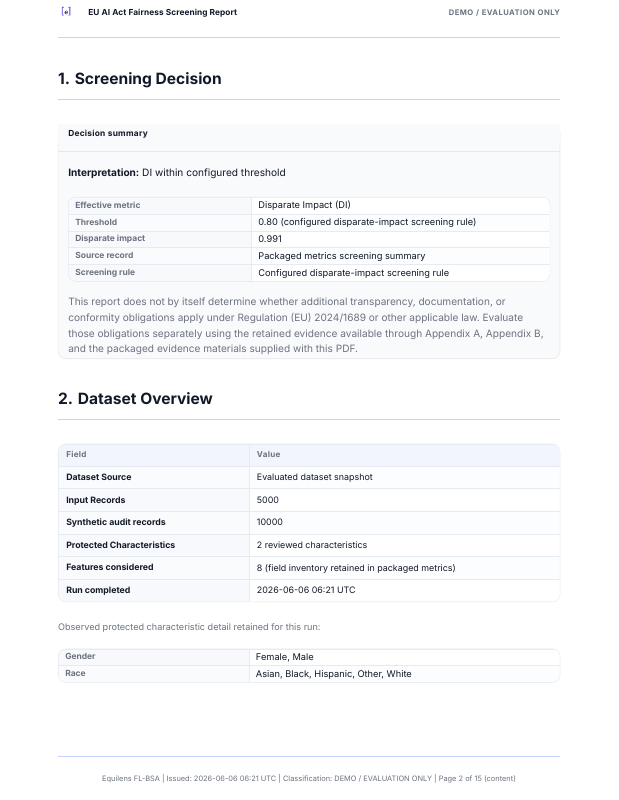
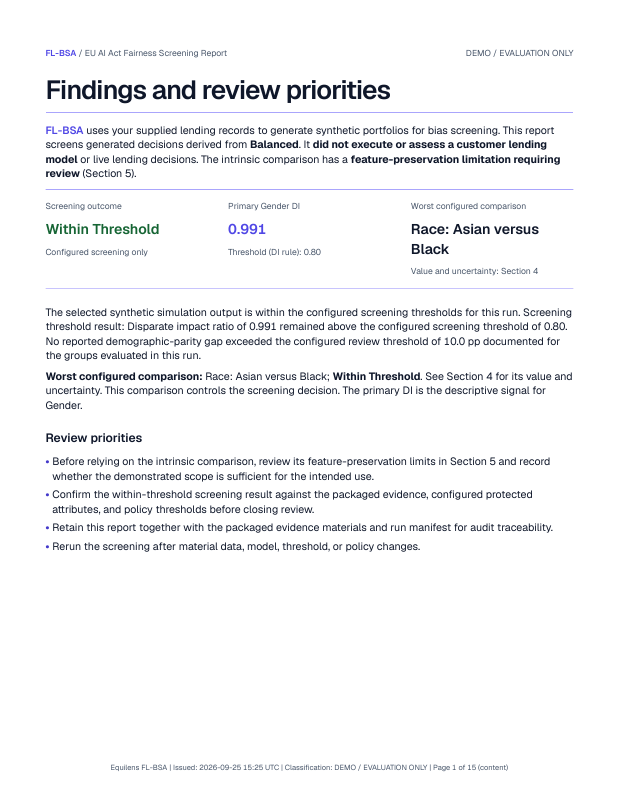
fix(site): align v5.0.8 demo evidence

diff --git a/trust-center/index.html b/trust-center/index.html
@@ -185,10 +185,10 @@
           <div class="card card--compact card--reader mt-8">
             <h3>Public reports &amp; files</h3>
             <ul class="checks">
-              <li><strong>Public demo release:</strong> <span class="product-name">FL-BSA</span> <code>v5.0.0-rc9-public-fix-2724455</code> (non-commercial prerelease).</li>
+              <li><strong>Public demo files:</strong> The sample report and GOLD pack use the bounded synthetic/demo prerelease <code>v5.0.8</code>. The whitepaper and supporting inputs remain on the approved <code>v5.0.0-rc9-public-fix-2724455</code> prerelease.</li>
               <li><strong>Public demo downloads:</strong> Selected downloads are available from <a href="/fl-bsa/#docs"><span class="product-name">FL-BSA</span> documentation</a>.</li>
               <li><strong>Demo-artifact boundary:</strong> Public demo artifacts are synthetic/demo-only sample materials, not customer output, legal advice, or proof of a public Marketplace launch. Customer evidence bundles are generated by the customer's deployed <span class="product-name">FL-BSA</span> appliance and are not published in this repository.</li>
-              <li><strong>Integrity verification:</strong> See <a href="https://github.com/equilens-labs/fl-bsa-pub/releases/download/v5.0.0-rc9-public-fix-2724455/SHA256SUMS.txt" target="_blank" rel="noopener noreferrer"><code>SHA256SUMS.txt</code></a> and <a href="https://github.com/equilens-labs/fl-bsa-pub/releases/download/v5.0.0-rc9-public-fix-2724455/manifest.json" target="_blank" rel="noopener noreferrer"><code>manifest.json</code></a> on the <a href="https://github.com/equilens-labs/fl-bsa-pub/releases/tag/v5.0.0-rc9-public-fix-2724455" target="_blank" rel="noopener noreferrer">public release page</a>, plus <a href="https://github.com/equilens-labs/fl-bsa-pub/blob/main/PROVENANCE.md" target="_blank" rel="noopener noreferrer"><code>PROVENANCE.md</code></a> for provenance notes.</li>
+              <li><strong>Held RC9 whitepaper/intake integrity:</strong> For the retained RC9 whitepaper and supporting-input set, see <a href="https://github.com/equilens-labs/fl-bsa-pub/releases/download/v5.0.0-rc9-public-fix-2724455/SHA256SUMS.txt" target="_blank" rel="noopener noreferrer"><code>SHA256SUMS.txt</code></a> and <a href="https://github.com/equilens-labs/fl-bsa-pub/releases/download/v5.0.0-rc9-public-fix-2724455/manifest.json" target="_blank" rel="noopener noreferrer"><code>manifest.json</code></a> on the <a href="https://github.com/equilens-labs/fl-bsa-pub/releases/tag/v5.0.0-rc9-public-fix-2724455" target="_blank" rel="noopener noreferrer">RC9 public release page</a>, plus <a href="https://github.com/equilens-labs/fl-bsa-pub/blob/main/PROVENANCE.md" target="_blank" rel="noopener noreferrer"><code>PROVENANCE.md</code></a> for provenance notes.</li>
               <li><strong>Deployment evidence:</strong> Website deployment evidence bundles are available on request (deploy snapshots, checksums, and site-audit outputs).</li>
             </ul>
           </div>

diff --git a/index.html b/index.html
@@ -116,7 +116,7 @@
   <section class="home-proof" aria-labelledby="sample-heading">
     <div class="home-container home-proof-layout">
       <a class="home-report-preview plausible-event-name=Proof+Asset+Click plausible-event-surface=home plausible-event-cta=sample-preview plausible-event-asset=demo-report-pdf" href="https://github.com/equilens-labs/fl-bsa-pub/releases/download/v5.0.8/customer_report.pdf" target="_blank" rel="noopener noreferrer" aria-label="Open the synthetic sample report, PDF, in a new tab">
-        <img src="/brand/product/report-screening.png" alt="Screening decision and dataset overview from the synthetic demo report" width="619" height="800" loading="lazy">
+        <img src="/brand/product/report-screening.png" alt="Findings and review priorities from the balanced synthetic demo report" width="619" height="800" loading="lazy">
         <span>Balanced synthetic demo report <span aria-hidden="true">↗</span></span>
       </a>
       <div class="home-proof-copy">

diff --git a/scripts/ops/check_public_demo_links.py b/scripts/ops/check_public_demo_links.py
@@ -1,0 +1,74 @@
+#!/usr/bin/env python3
+"""Enforce the approved public-demo release split in deployable HTML."""
+
+from __future__ import annotations
+
+import sys
+from collections import Counter
+from html.parser import HTMLParser
+from pathlib import Path
+
+
+BASE = "https://github.com/equilens-labs/fl-bsa-pub/releases"
+RC9 = "v5.0.0-rc9-public-fix-2724455"
+
+EXPECTED_COUNTS = {
+    f"{BASE}/download/v5.0.8/customer_report.pdf": 7,
+    f"{BASE}/download/v5.0.8/gold_bundle.zip": 1,
+    f"{BASE}/download/{RC9}/whitepaper.pdf": 2,
+    f"{BASE}/download/{RC9}/WhitePaper_Intake_Bundle_v4.zip": 2,
+    f"{BASE}/download/{RC9}/SHA256SUMS.txt": 2,
+    f"{BASE}/download/{RC9}/manifest.json": 2,
+    f"{BASE}/tag/{RC9}": 2,
+}
+
+FORBIDDEN = (
+    f"{BASE}/download/{RC9}/customer_report.pdf",
+    f"{BASE}/download/{RC9}/gold_bundle.zip",
+    f"{BASE}/latest/",
+)
+
+
+class HrefCollector(HTMLParser):
+    def __init__(self) -> None:
+        super().__init__()
+        self.hrefs: list[str] = []
+
+    def handle_starttag(self, _tag: str, attrs: list[tuple[str, str | None]]) -> None:
+        self.hrefs.extend(value for name, value in attrs if name == "href" and value is not None)
+
+
+def main() -> int:
+    deploy_root = Path(sys.argv[1] if len(sys.argv) > 1 else "dist")
+    html_files = sorted(deploy_root.rglob("*.html"))
+    if not html_files:
+        print(f"[FAIL] no deployed HTML found under {deploy_root}", file=sys.stderr)
+        return 1
+
+    collector = HrefCollector()
+    for path in html_files:
+        collector.feed(path.read_text(encoding="utf-8"))
+    href_counts = Counter(collector.hrefs)
+    failures: list[str] = []
+
+    for url, expected in EXPECTED_COUNTS.items():
+        actual = href_counts[url]
+        if actual != expected:
+            failures.append(f"expected {expected} occurrence(s), found {actual}: {url}")
+
+    for url_fragment in FORBIDDEN:
+        actual = sum(count for href, count in href_counts.items() if url_fragment in href)
+        if actual:
+            failures.append(f"expected 0 occurrences, found {actual}: {url_fragment}")
+
+    if failures:
+        for failure in failures:
+            print(f"[FAIL] {failure}", file=sys.stderr)
+        return 1
+
+    print(f"[OK] public-demo link contract checked in {len(html_files)} deployed HTML files")
+    return 0
+
+
+if __name__ == "__main__":
+    raise SystemExit(main())

diff --git a/output/ops/FLBSA-1802-PR93-V508-DEMO-RETARGET/README.md b/output/ops/FLBSA-1802-PR93-V508-DEMO-RETARGET/README.md
@@ -1,0 +1,65 @@
+# FL-BSA v5.0.8 public-demo website retarget evidence
+
+- Collected: `2026-09-29T03:47:47Z`
+- Change records: `equilens-labs/fl-bsa#1802`, `equilens-labs/website#93`
+- Public release: `equilens-labs/fl-bsa-pub` release ID `398600408`, tag `v5.0.8`, <https://github.com/equilens-labs/fl-bsa-pub/releases/tag/v5.0.8>
+- Public release target: `9a5518d9b467202d1d8fad56c6f65aa8358046d6`
+
+## Immutable source assets
+
+| Asset | Release asset ID | Bytes | SHA-256 | Source |
+| --- | ---: | ---: | --- | --- |
[2 lines of base64/hex data omitted]
+
+A fresh download returned HTTP 200 for both assets and matched both hashes. The PDF is 16 pages.
+
+## Report preview provenance
+
+`brand/product/report-screening.png` is a direct derivative of PDF page 2, headed “Findings and review priorities.” That page was selected after reviewing all 16 pages because it clearly shows the demo watermark, screening result, headline metric, worst comparison, and review priorities. No report content was redrawn.
+
+- Source: the exact `customer_report.pdf` bytes above
+- Source page: PDF page 2 (content page 1 of 15)
[2 lines of base64/hex data omitted]
+- Renderer: Poppler `pdftoppm` 24.02.0; optimizer: Pillow 11.3.0
+
+Deterministic render and optimization recipe:
+
+```bash
+pdftoppm -f 2 -l 2 -singlefile -png -scale-to-x 619 -scale-to-y 800 \
+  -aa yes -aaVector yes customer_report.pdf page2-direct
+python3 - <<'PY'
+from PIL import Image
+image = Image.open("page2-direct.png").convert("RGB")
+image.quantize(
+    colors=256,
+    method=Image.Quantize.MAXCOVERAGE,
+    dither=Image.Dither.NONE,
+).save("report-screening.png", format="PNG", optimize=True, compress_level=9)
+PY
+```
+
+## Deployable link inventory
+
+The source-level invariant in `scripts/ops/check_public_demo_links.py` checks the generated `dist` HTML (23 pages):
+
+- v5.0.8 `customer_report.pdf`: 7 links (`index.html` 2, `fl-bsa/index.html` 3, `fl-bsa/evidence/index.html` 1, `procurement/index.html` 1)
+- v5.0.8 `gold_bundle.zip`: 1 link (`fl-bsa/index.html`)
+- RC9 report and GOLD links: 0
+- `/releases/latest/` links: 0
+- Retained RC9 whitepaper and intake links: 2 each
+- Retained RC9 `SHA256SUMS.txt`, `manifest.json`, and tag-page links: 2 each
+
+The Trust Center labels the v5.0.8 report/GOLD set separately from the held RC9 whitepaper/intake set. All retained RC9 URLs remain unchanged.
+
+## Validation
+
+- Content lint, footer metadata guard, deployed-HTML validation, and link-contract invariant: pass.
+- Vale 3.7.1 over raw and rendered text: 0 findings across 23 pages; 20/20 Markdown and 9/9 rendered-HTML negative probes fired.
+- Full Playwright/visual/axe run: 402/404 pass. The two failures were the pre-existing parallel clock race (`clock.pauseAt: Cannot fast-forward to the past`) in E1 analytics tests at `tests/site.spec.ts:1322` and `:1371`; a direct single-worker rerun of both tests passed 8/8 across all four browser projects.
+- Desktop and mobile full-page screenshots: manually reviewed; the rendered page is legible, uncropped, and consistent with the PDF.
+- Lychee 0.24.2: 475 successful checks, 16 intentional `mailto:` exclusions, 0 errors.
+- Lighthouse CI 0.13.0, six configured routes: pass. Performance 90–100, accessibility 100, best practices 100, SEO 92–93. An initial local attempt encountered an unrelated process already bound to port 8080; the isolated-port rerun is the reported result.
+- Fresh public-asset download and SHA-256 verification: pass (HTTP 200 for both assets).
+- Link-invariant mutation probe: pass; replacing one v5.0.8 report URL with RC9 made the checker exit 1 and report both count violations.
